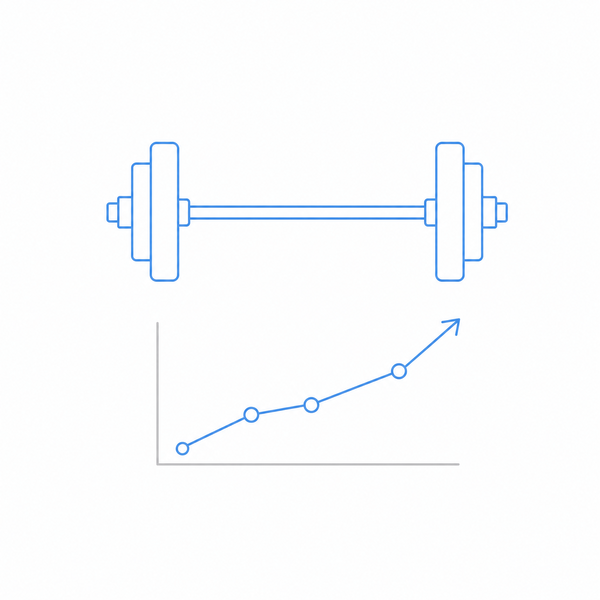
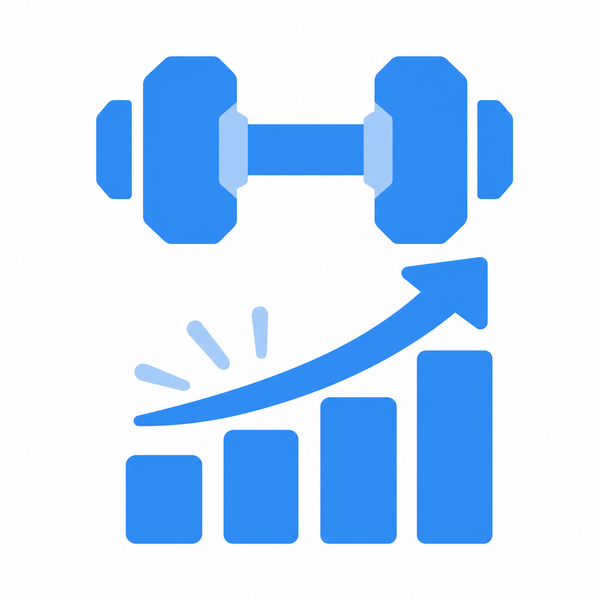
Finish celebration, rest timer, haptics; refresh empty-hero
- Finish workout: full-screen celebration (animated check + confetti),
  distinct message for mesocycle completion
- Rest timer: floating pill starts on each completed set, counts up with
  a progress bar toward a 2-min target, dismissable
- Haptics: navigator.vibrate on set-complete / exercise-complete / finish
  (progressive enhancement; no-op on iOS Safari, which lacks the API)
- Regenerated empty-hero illustration in the new bold filled style
- sw.js cache -> v7

diff --git a/app.js b/app.js
@@ -433,6 +433,7 @@ function e1rmTrend(exerciseId) {
 /* ============================ router / shell ============================ */
 function switchTab(tab) {
   S.tab = tab;
+  if (tab !== 'workout') Rest.stop();
   $$('.tabbar button').forEach(b => b.classList.toggle('active', b.dataset.tab === tab));
   $$('.view').forEach(v => v.classList.remove('active'));
   $('#view-' + tab).classList.add('active');
@@ -685,7 +686,8 @@ function renderWorkout() {
     if (nowDone) {
       flash(btn, 'pop');
       flash(btn.closest('.set-grid'), 'flash');
-      if (enDone && !wasComplete) flash(block, 'jc');
+      if (enDone && !wasComplete) { flash(block, 'jc'); haptic([8, 30, 8]); } else { haptic(9); }
+      Rest.start();
     }
     updateWkProgress();
   });
@@ -777,10 +779,14 @@ function openFeedbackModal(meso, w) {
     // meso complete?
     const doneAll = mesoWorkouts(meso.id).filter(x => x.status === 'done').length >= meso.weeks * meso.days.length;
     if (doneAll) { meso.status = 'done'; saveMeso(meso); }
+    Rest.stop();
     closeModal();
     S.planWeek = null;
-    toast(doneAll ? 'Mesocycle complete! 🎉' : 'Workout saved');
     switchTab('train');
+    celebrate(
+      doneAll ? 'Mesocycle complete!' : 'Workout complete!',
+      doneAll ? 'Outstanding block — enjoy the recovery.' : 'Logged & progressed. Nice work.'
+    );
   };
 }
 
@@ -1257,6 +1263,63 @@ function runCountUps(root) {
     const fmt = f === 'k' ? fmtK : f === 'dec' ? (v => round1(v)) : (v => Math.round(v));
     countUp(n, to, fmt);
   });
+}
+
+/* ============================ haptics / rest / celebrate ============================ */
+/* Vibration API — works on Android/Chrome; iOS Safari has no support, so this
+   is a silent no-op there (progressive enhancement). */
+function haptic(pattern) { try { if (navigator.vibrate) navigator.vibrate(pattern); } catch (_) {} }
+
+const Rest = {
+  el: null, iv: null, t0: 0, target: 120,
+  ensure() {
+    if (this.el) return;
+    const d = document.createElement('div');
+    d.className = 'rest-pill';
+    d.innerHTML = `<span class="rt-lbl">Rest</span><span class="rt-time num">0:00</span><button class="rt-skip" aria-label="Dismiss rest timer">✕</button><span class="rt-bar"><i></i></span>`;
+    document.body.appendChild(d);
+    d.querySelector('.rt-skip').onclick = () => { haptic(6); this.stop(); };
+    this.el = d;
+  },
+  start() {
+    this.ensure();
+    this.t0 = performance.now();
+    this.el.classList.add('show'); this.el.classList.remove('done');
+    clearInterval(this.iv); this.render(); this.iv = setInterval(() => this.render(), 250);
+  },
+  render() {
+    const s = Math.floor((performance.now() - this.t0) / 1000);
+    this.el.querySelector('.rt-time').textContent = `${Math.floor(s / 60)}:${String(s % 60).padStart(2, '0')}`;
+    this.el.querySelector('.rt-bar i').style.width = Math.min(100, s / this.target * 100) + '%';
+    if (s >= this.target && !this.el.classList.contains('done')) { this.el.classList.add('done'); haptic(18); }
+  },
+  stop() { clearInterval(this.iv); this.iv = null; if (this.el) this.el.classList.remove('show'); },
+};
+
+const CONFETTI_COLORS = ['#2f6fe0', '#1a9d4d', '#e0a52a', '#4c8df0', '#7fb0f7', '#d64545'];
+function celebrate(title, sub) {
+  const o = document.createElement('div');
+  o.className = 'celebrate';
+  let conf = '';
+  if (!REDUCE_MOTION()) {
+    for (let i = 0; i < 30; i++) {
+      const left = Math.round(Math.random() * 100);
+      const dur = (1.1 + Math.random() * 0.9).toFixed(2);
+      const delay = (Math.random() * 0.35).toFixed(2);
+      const col = CONFETTI_COLORS[i % CONFETTI_COLORS.length];
+      const rot = Math.round(Math.random() * 360);
+      conf += `<i style="left:${left}%;background:${col};animation-duration:${dur}s;animation-delay:${delay}s;transform:rotate(${rot}deg)"></i>`;
+    }
+  }
+  o.innerHTML = `<div class="confetti">${conf}</div><div class="cel-card">
+      <div class="cel-check"><svg viewBox="0 0 24 24"><path pathLength="1" d="M4 12.5l5 5 11-11"/></svg></div>
+      <div class="cel-title">${esc(title)}</div>
+      ${sub ? `<div class="cel-sub muted">${esc(sub)}</div>` : ''}
+    </div>`;
+  document.body.appendChild(o);
+  haptic([12, 40, 14]);
+  requestAnimationFrame(() => o.classList.add('show'));
+  setTimeout(() => { o.classList.remove('show'); setTimeout(() => o.remove(), 320); }, 1600);
 }
 
 /* ============================ settings / export ============================ */

diff --git a/style.css b/style.css
@@ -606,6 +606,41 @@ label.field > * { margin-top: 6px; }
   .day-card:hover { border-color: var(--border-2); transform: translateY(-1px); box-shadow: var(--shadow-2); }
 }
 
+/* ---------------- rest timer pill ---------------- */
+.rest-pill {
+  position: fixed; left: 50%; bottom: calc(var(--tabbar-h) + 16px + env(safe-area-inset-bottom));
+  transform: translateX(-50%) translateY(16px); z-index: 55;
+  display: flex; align-items: center; gap: 9px;
+  background: var(--surface-1); border: 1px solid var(--border-2); border-radius: var(--r-pill);
+  padding: 9px 9px 11px 15px; box-shadow: var(--shadow-2);
+  opacity: 0; pointer-events: none; transition: opacity .25s, transform .25s;
+}
+.rest-pill.show { opacity: 1; transform: translateX(-50%) translateY(0); pointer-events: auto; }
+.rest-pill .rt-lbl { font-size: 12px; font-weight: 650; color: var(--ink-muted); text-transform: uppercase; letter-spacing: .04em; }
+.rest-pill .rt-time { font-weight: 750; font-size: 15.5px; min-width: 44px; font-variant-numeric: tabular-nums; }
+.rest-pill.done { border-color: var(--good); }
+.rest-pill.done .rt-time, .rest-pill.done .rt-lbl { color: var(--good); }
+.rest-pill .rt-skip { width: 28px; height: 28px; border: none; background: var(--surface-2); border-radius: 50%; color: var(--ink-muted); cursor: pointer; display: grid; place-items: center; font-size: 13px; }
+.rest-pill .rt-skip:active { transform: scale(.9); }
+.rest-pill .rt-bar { position: absolute; left: 15px; right: 15px; bottom: 5px; height: 2px; border-radius: 2px; background: var(--surface-3); overflow: hidden; }
+.rest-pill .rt-bar i { display: block; height: 100%; width: 0; background: var(--accent); border-radius: 2px; transition: width .25s linear; }
+.rest-pill.done .rt-bar i { background: var(--good); }
+
+/* ---------------- finish celebration ---------------- */
+.celebrate { position: fixed; inset: 0; z-index: 80; display: grid; place-items: center; pointer-events: none; opacity: 0; transition: opacity .25s; }
+.celebrate.show { opacity: 1; }
+.cel-card { position: relative; z-index: 1; text-align: center; transform: scale(.82); transition: transform .32s cubic-bezier(.2,1.5,.4,1); }
+.celebrate.show .cel-card { transform: scale(1); }
+.cel-check { width: 86px; height: 86px; margin: 0 auto 14px; border-radius: 50%; background: var(--good); display: grid; place-items: center; box-shadow: 0 10px 34px rgba(26,157,77,.42); }
+.cel-check svg { width: 46px; height: 46px; fill: none; stroke: #fff; stroke-width: 3.6; stroke-linecap: round; stroke-linejoin: round; stroke-dasharray: 1; stroke-dashoffset: 1; }
+.celebrate.show .cel-check svg { animation: drawCheck .5s ease .16s forwards; }
+@keyframes drawCheck { to { stroke-dashoffset: 0; } }
+.cel-title { font-size: 23px; font-weight: 800; letter-spacing: -.02em; color: var(--ink-1); }
+.cel-sub { margin-top: 3px; }
+.confetti { position: absolute; inset: 0; overflow: hidden; pointer-events: none; }
+.confetti i { position: absolute; top: -14px; width: 9px; height: 15px; border-radius: 2px; opacity: .92; animation: confFall linear forwards; }
+@keyframes confFall { to { transform: translateY(112vh) rotate(720deg); opacity: .15; } }
+
 .toast {
   position: fixed; left: 50%; bottom: calc(var(--tabbar-h) + 18px + env(safe-area-inset-bottom));
   transform: translateX(-50%) translateY(10px); z-index: 60;

diff --git a/sw.js b/sw.js
@@ -1,5 +1,5 @@
 /* MesoForge service worker — cache-first app shell for offline use */
-const CACHE = 'mesoforge-v6';
+const CACHE = 'mesoforge-v7';
 const ASSETS = [
   './',
   './index.html',
